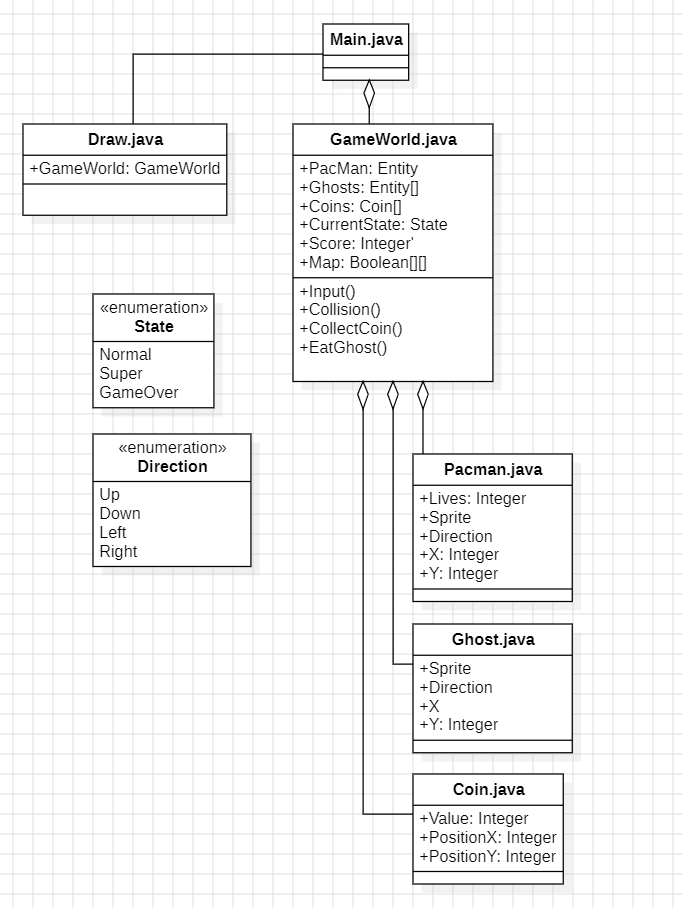
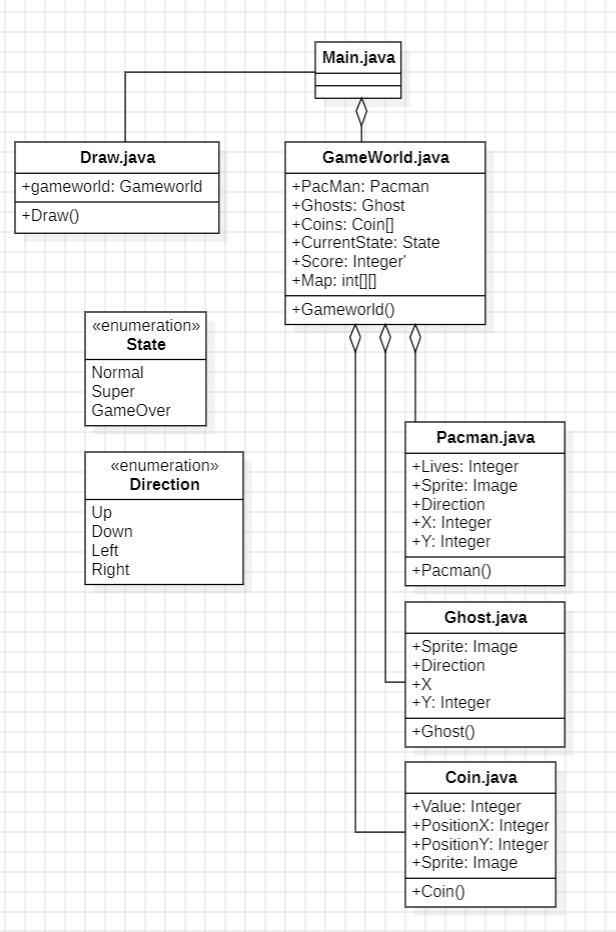
continued work on objects

Changed region(s): [[0.3701, 0.0308, 0.9253, 0.9868], [0.1234, 0.3084, 0.401, 0.6476], [0.0, 0.0617, 0.3701, 0.2467]]

diff --git a/demo/src/main/java/com/example/Gameworld.java b/demo/src/main/java/com/example/Gameworld.java
@@ -1,24 +1,86 @@
 package com.example;
 
+import java.lang.reflect.Array;
+
+import javafx.scene.image.Image;
+
+/*
+ TODO: 
+ FRAMES PR SECOND INT
+ GAMELOOP 
+ SPRITE MANAGAER
+ everything to do with starting the game, 
+ the follwoing things may have methods they call on from other classes, but like kind of:
+ building the stage, checking for collisons,
+ handling collisions
+ updating sprites 
+ check the reference thingy image (named: placement of methods pacman)
+ speed for the ghosts
+*/
+
 public class Gameworld {
-    private Pacman pacciboy;
+    private Pacman Pacman;
     private Ghost[] ghosts;
     private Coin[] coins;
     private State state;
     private int score;
-    private final boolean[][] map = null; //sup, herved indsat null så det kører uden fejl
+    private final int[][] map = null; //0 = empty space, 1 = wall, 2 = powerup, -1 = ghostvault
 
     public Gameworld() {
+        Pacman pac = new Pacman();
+        this.Pacman = pac;
+
+        // Here we add the sprites for ghosts, and create new ghost objects that use them.
+        Image blueGhost = new Image("/blue guy.jpg");
+        Ghost blue = new Ghost(blueGhost, 50, 50);
+
+        Image orangeGhost = new Image("/orange guy.jpg");
+        Ghost orange = new Ghost(orangeGhost, 51, 50);
+        
+        Image pinkGhost = new Image("/pink guy.jpg");
+        Ghost pink = new Ghost(pinkGhost, 50, 51);
+
+        Image redGhost = new Image("/red ghost.jpg");
+        Ghost red = new Ghost(redGhost, 52, 50);
+
+        Ghost[] ghostarray = {blue, orange, pink, red};
+        this.ghosts = ghostarray;
+
+        Coin[] coinarray = new Coin[?];
+        this.coins = coinarray;
+
+        this.state = State.NORMAL;
 
     }
     
+    
     public void createCoins() {
-        for(int i = 0; i < 21; i++) {
-            for(int k = 0; k < 30; k++) {
-                if (false) { //her igen indsat false indtil den er færdig så den kører uden fejl
-                    //create coin and add to GW list
+        for(int y = 0; y < 21; y++) {
+            for(int x = 0; x < 30; x++) {
+                if (Gameworld.map[x][y] == 0) { 
+                    //create normal coin and add to gw list
+                }
+                if (Gameworld.map[x][y] == 2) {
+                    //create powerup
                 }
             }
         }
     } 
+    
+    public void collectCoin(){
+        
+    }
+
+
+    public void collision(){
+        
+    }
+
+
+    public void EatGhost(){
+        
+    }
+
+    
+    
 }

diff --git a/demo/src/main/java/com/example/Ghost.java b/demo/src/main/java/com/example/Ghost.java
@@ -4,12 +4,16 @@ import javafx.scene.image.Image;
 
 public class Ghost {
     private Image sprite;
-    private Direction Direction;
+    private Direction direction;
     private int x;
     private int y;
 
-    public Ghost() {
-        
+    public Ghost(Image sprite, int x, int y) {
+        Image blueGhost = new Image("/blue guy.jpg");
+        this.sprite = sprite;
+        this.direction = Direction.UP;
+        this.x = x;
+        this.y = y;
     }
 }
 

diff --git a/demo/src/main/java/com/example/Coin.java b/demo/src/main/java/com/example/Coin.java
@@ -1,12 +1,18 @@
 package com.example;
 
+import javafx.scene.image.Image;
+
 public class Coin {
+    private Image sprite;
     private int value;
     private int x;
     private int y;
 
-    public Coin() {
-        
+    public Coin(Image sprite, int value, int x, int y) {
+        this.sprite = sprite;
+        this.value = value;
+        this.x = x;
+        this.y = y;
     }
     
 }

diff --git a/demo/src/main/java/com/example/Pacman.java b/demo/src/main/java/com/example/Pacman.java
@@ -10,7 +10,13 @@ public class Pacman {
     private int y;
 
     public Pacman() {
-        
+        this.lives = 2;
+        Image pacSprite = new Image("/pac man sprite.jpg");
+        this.sprite = 
+        this.direction = Direction.UP;
+        this.x = 1;
+        this.y = 1;
+
     }
 
 }

diff --git a/demo/src/main/java/com/example/Draw.java b/demo/src/main/java/com/example/Draw.java
@@ -1,5 +1,12 @@
 package com.example;
 
+//TODO: 
+
 public class Draw {
+    private GW Gameworld;
+
+    public Draw(Gameworld gw) {
+        this.GW = gw;
+    }
     
 }
